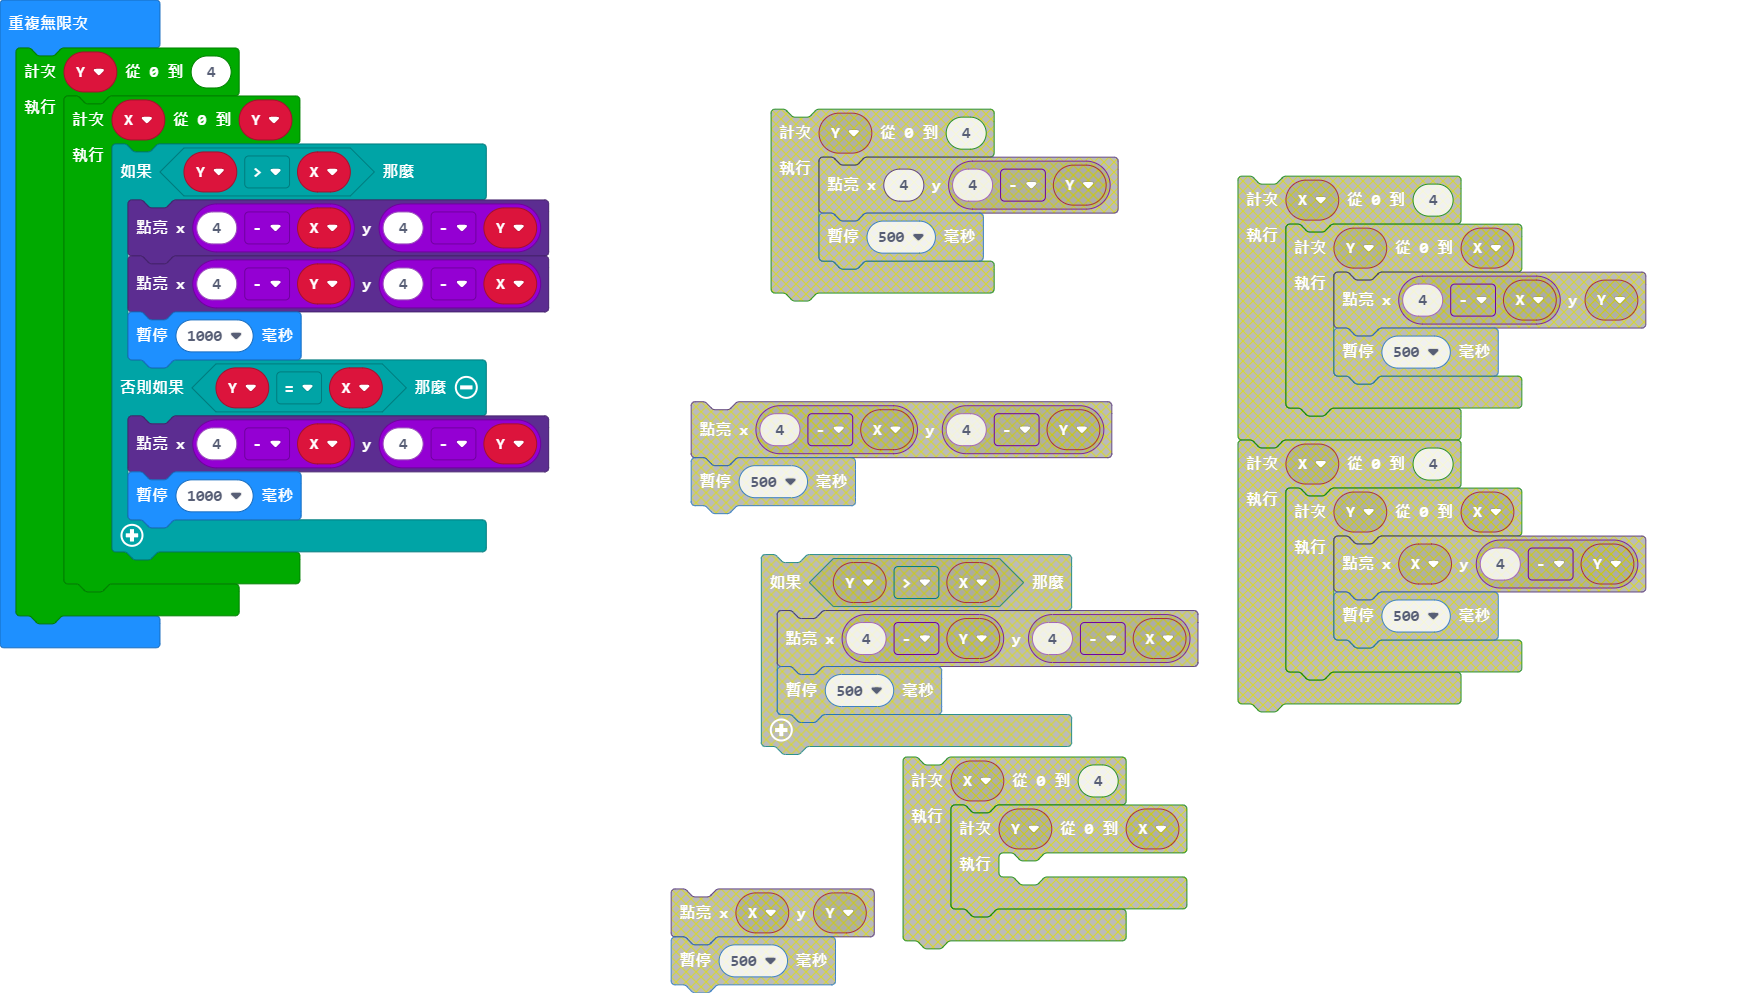
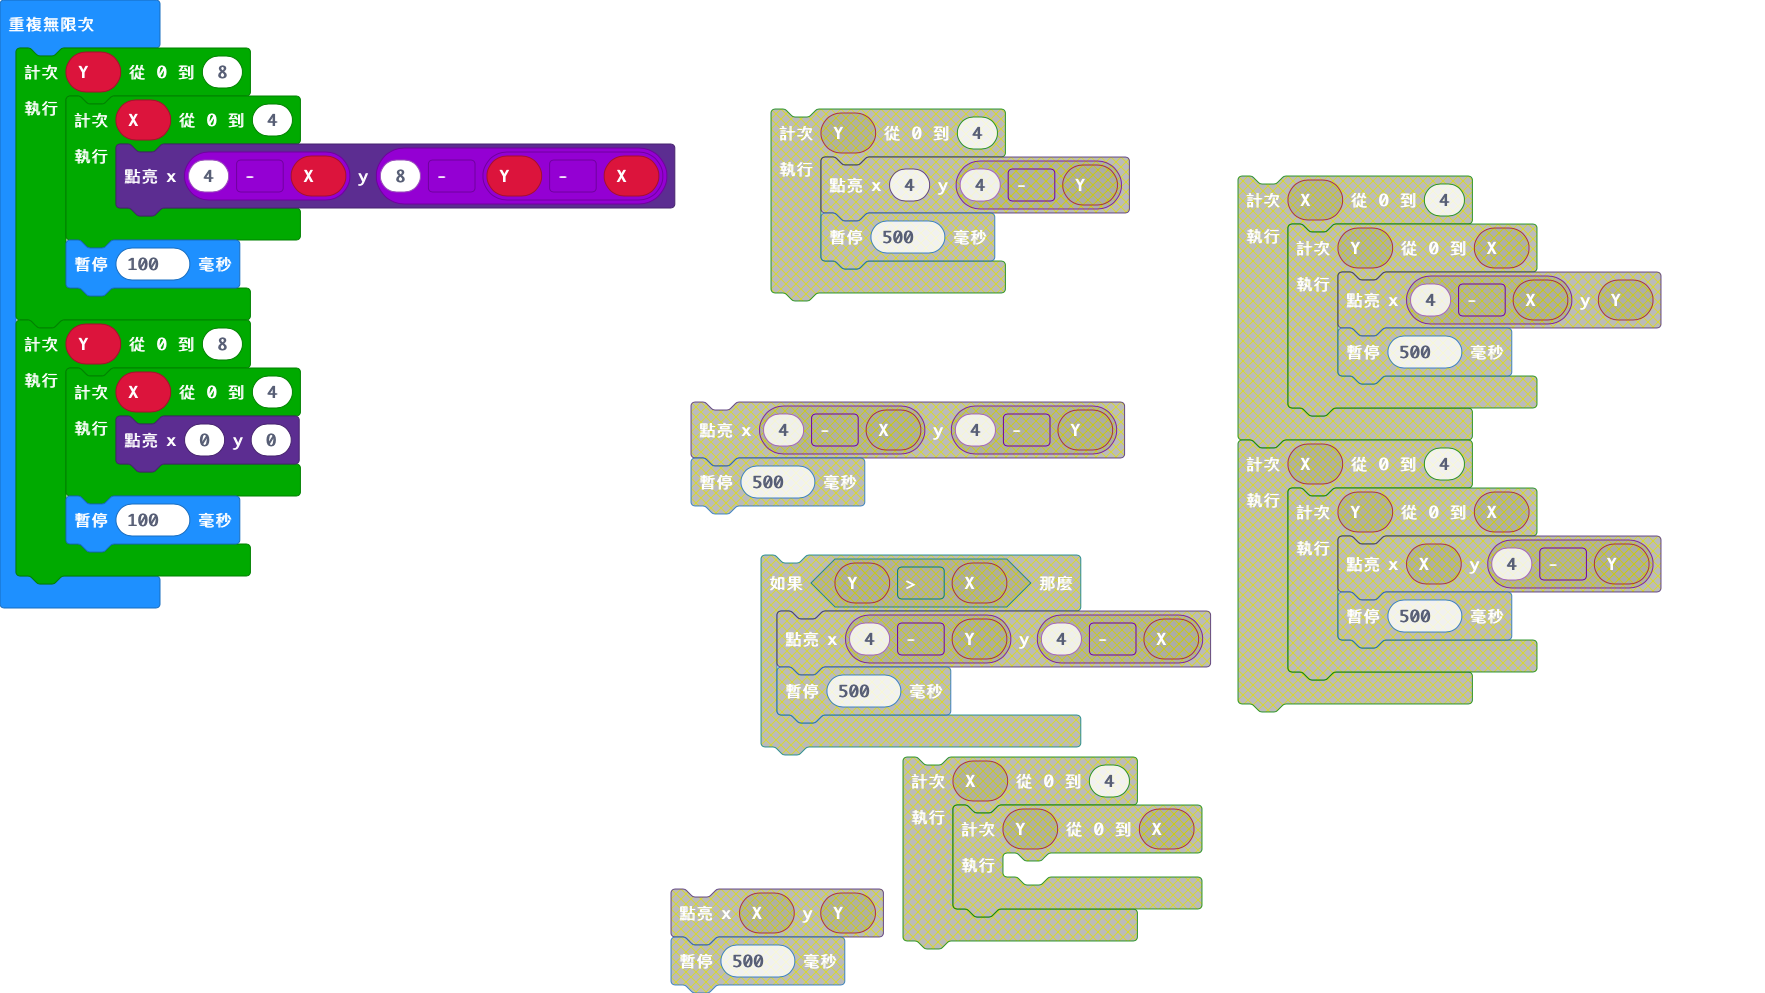
Update main.blocks, main.ts

diff --git a/main.ts b/main.ts
@@ -1,14 +1,14 @@
 basic.forever(function () {
-    for (let Y = 0; Y <= 4; Y++) {
-        for (let X = 0; X <= Y; X++) {
-            if (Y > X) {
-                led.plot(4 - X, 4 - Y)
-                led.plot(4 - Y, 4 - X)
-                basic.pause(1000)
-            } else if (Y == X) {
-                led.plot(4 - X, 4 - Y)
-                basic.pause(1000)
-            }
+    for (let Y = 0; Y <= 8; Y++) {
+        for (let X = 0; X <= 4; X++) {
+            led.plot(4 - X, 8 - (Y - X))
         }
+        basic.pause(100)
+    }
+    for (let Y = 0; Y <= 8; Y++) {
+        for (let X = 0; X <= 4; X++) {
+            led.plot(0, 0)
+        }
+        basic.pause(100)
     }
 })
